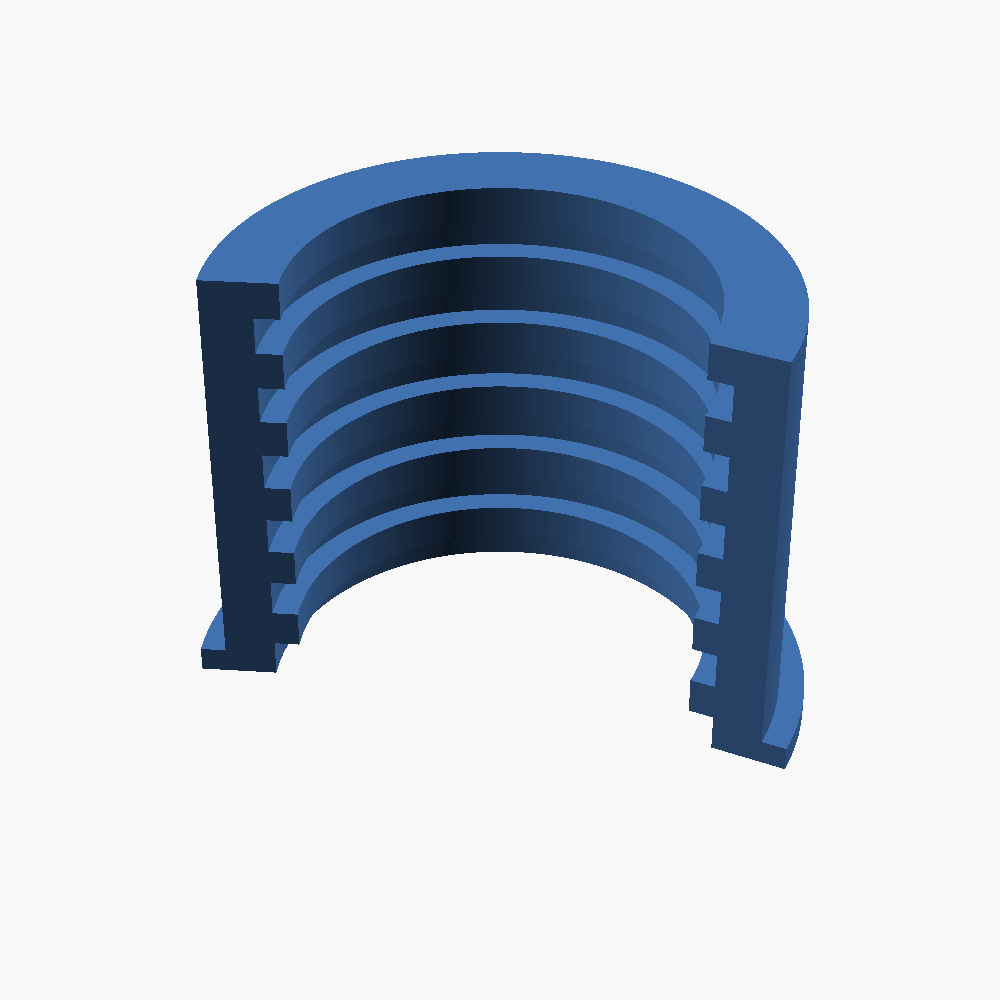
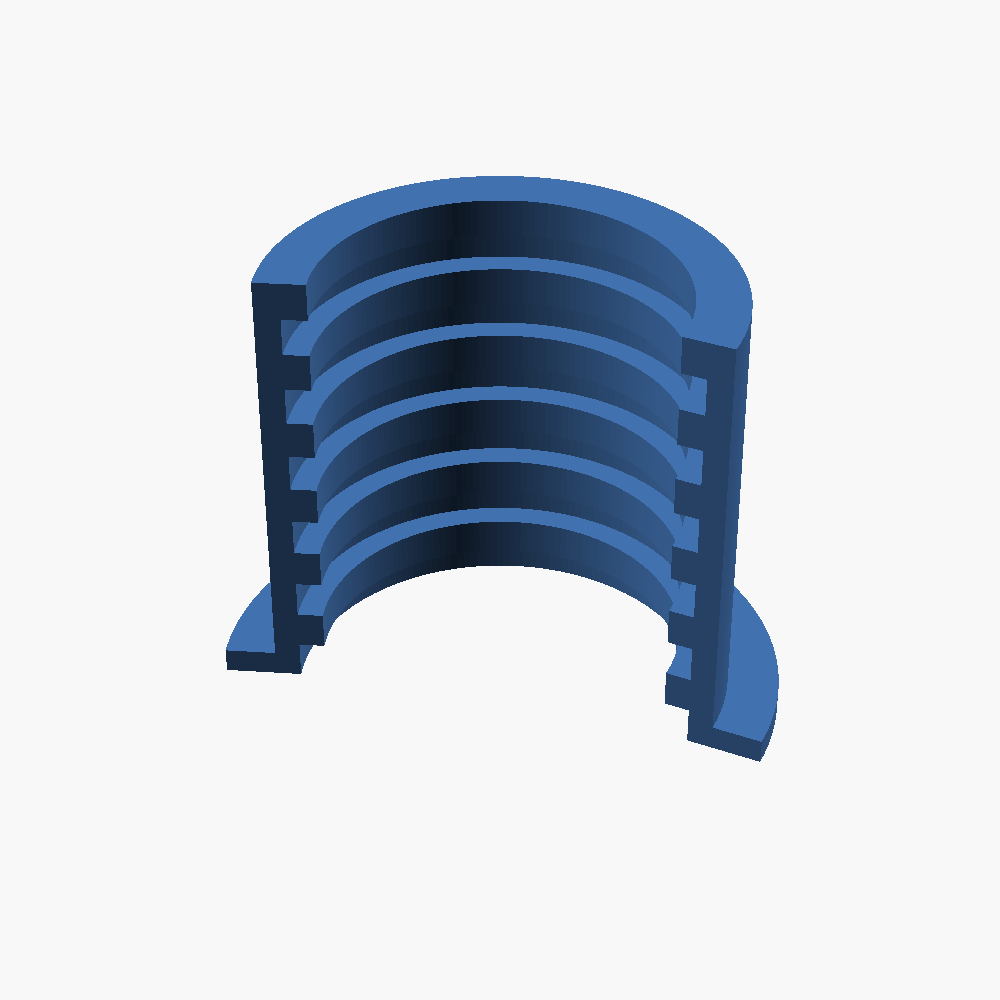
Reparameterise: pipe_diameter + bore_diameter, derive available material

Changed region(s): [[0.186, 0.155, 0.806, 0.775]]

diff --git a/README.md b/README.md
@@ -1,7 +1,7 @@
 # Corrugated Pipe Clamp
 
 A parametric, 3D-printable clamp that wraps **partially** around corrugated conduit
-(electrical draw-in pipe). Internal circumferential ridges seat into the conduit's grooves
+(electrical draw-in pipe). Internal circumferential teeth bite into the conduit's grooves
 and **lock the pipe axially**, while a **flange** at one end is wider than the pipe so the
 clamp + pipe cannot be pulled through a hole in a wall.
 
@@ -11,45 +11,51 @@ geometry updates automatically. All dimensions are in **millimetres**.
 
 ## Rendering example
 
-Rendered with the default parameter values listed below (16 mm conduit → 18 mm bore,
+Rendered with the default parameter values listed below (16 mm conduit, 18 mm wall hole,
 200° coverage, 6 corrugations):
 
 ![Pipe clamp render](images/pipe_clamp.png)
 
 This produces an arc covering ~200° of the pipe (open ~160° so it snaps on), with internal
-circumferential grip ridges and a thin flange lip at one end. Resulting outer Ø ≈ 22 mm,
-flange Ø ≈ 24 mm, length ≈ 18 mm.
+circumferential grip teeth and a flange lip at one end. Computed result:
+
+```
+Available material (radial): 1 mm
+Clamp body outer Ø: 18 mm     (= bore_diameter)
+Flange Ø: 22 mm               (= pipe_diameter + 2·flange_overhang)
+Length: 18 mm
+```
 
 ## Parameters
 
 | Parameter | Default | Meaning |
 |---|---|---|
-| `bore_diameter` | `18` | Inner bore over the conduit's corrugation crests (mm) |
-| `corr_depth` | `1` | Radial depth the grip ridges protrude inward (→ grip Ø16) |
-| `corr_width` | `1.5` | Width of each ridge along the pipe axis (mm) |
-| `groove_width` | `1.5` | Width of each groove/recess along the pipe axis (mm) |
+| `pipe_diameter` | `16` | Outer (crest) diameter of the corrugated conduit (mm) |
+| `bore_diameter` | `18` | Hole the clamp passes through = clamp body outer Ø (mm) |
+| `corr_depth` | `1` | How far the grip teeth bite into the conduit grooves (mm) |
+| `corr_width` | `1.5` | Width of each grip tooth along the pipe axis (mm) |
+| `groove_width` | `1.5` | Width of each recess (over a crest) along the axis (mm) |
 | `corr_count` | `6` | Number of corrugation periods → sets the length |
-| `wall_thickness` | `2` | Solid material outside the bore, radial (→ outer Ø22) |
 | `coverage_deg` | `200` | Degrees of the pipe circumference covered |
-| `flange_overhang` | `3` | How far the flange extends beyond the pipe width (→ flange Ø24) |
+| `flange_overhang` | `3` | How far the flange extends beyond the pipe width (mm) |
 | `flange_thickness` | `1` | Flange thickness along the pipe axis (mm) |
 
 ### Sizing logic
 
-Corrugated conduit is often labelled by its nominal diameter (e.g. "16 mm"). Because the
-crest and groove diameters differ, this model is parameterised by the **physical, printable
-geometry** instead, to avoid ambiguity:
+You give the two diameters and the rest is **derived**:
 
-- `bore_diameter` is the bore over the conduit's **crests** (e.g. 18 mm).
-- The clamp's grip ridges protrude inward by `corr_depth` and seat in the conduit's
-  **grooves**, so the conduit's nominal/grip diameter ≈ `bore_diameter − 2·corr_depth`
-  (here 18 − 2 = 16 mm).
-- The wall is added outside the bore: outer Ø = `bore_diameter + 2·wall_thickness`.
-- The flange extends `flange_overhang` mm beyond the pipe width:
-  flange Ø = `bore_diameter + 2·flange_overhang`.
+- `pipe_diameter` is the conduit's outer (crest) diameter (e.g. 16 mm).
+- `bore_diameter` is the hole the clamp must fit through — i.e. the clamp body's **outer
+  diameter** (e.g. 18 mm).
+- **Available material** (the smooth backing wall over the crests) =
+  `(bore_diameter − pipe_diameter) / 2` (here 1 mm radial).
+- The grip teeth bite an additional `corr_depth` into the conduit's grooves, so the part is
+  thicker at the teeth and thinnest (= available material) at the recesses.
+- Flange Ø = `pipe_diameter + 2·flange_overhang` (here 22 mm) — catches on the wall hole.
 - Length = `corr_count · (corr_width + groove_width)` (always whole corrugation periods).
 
-A coverage above 180° gives a snap-fit grip onto the pipe.
+`bore_diameter` must be larger than `pipe_diameter` (asserted in the model). A coverage
+above 180° gives a snap-fit grip onto the pipe.
 
 ## Usage
 
